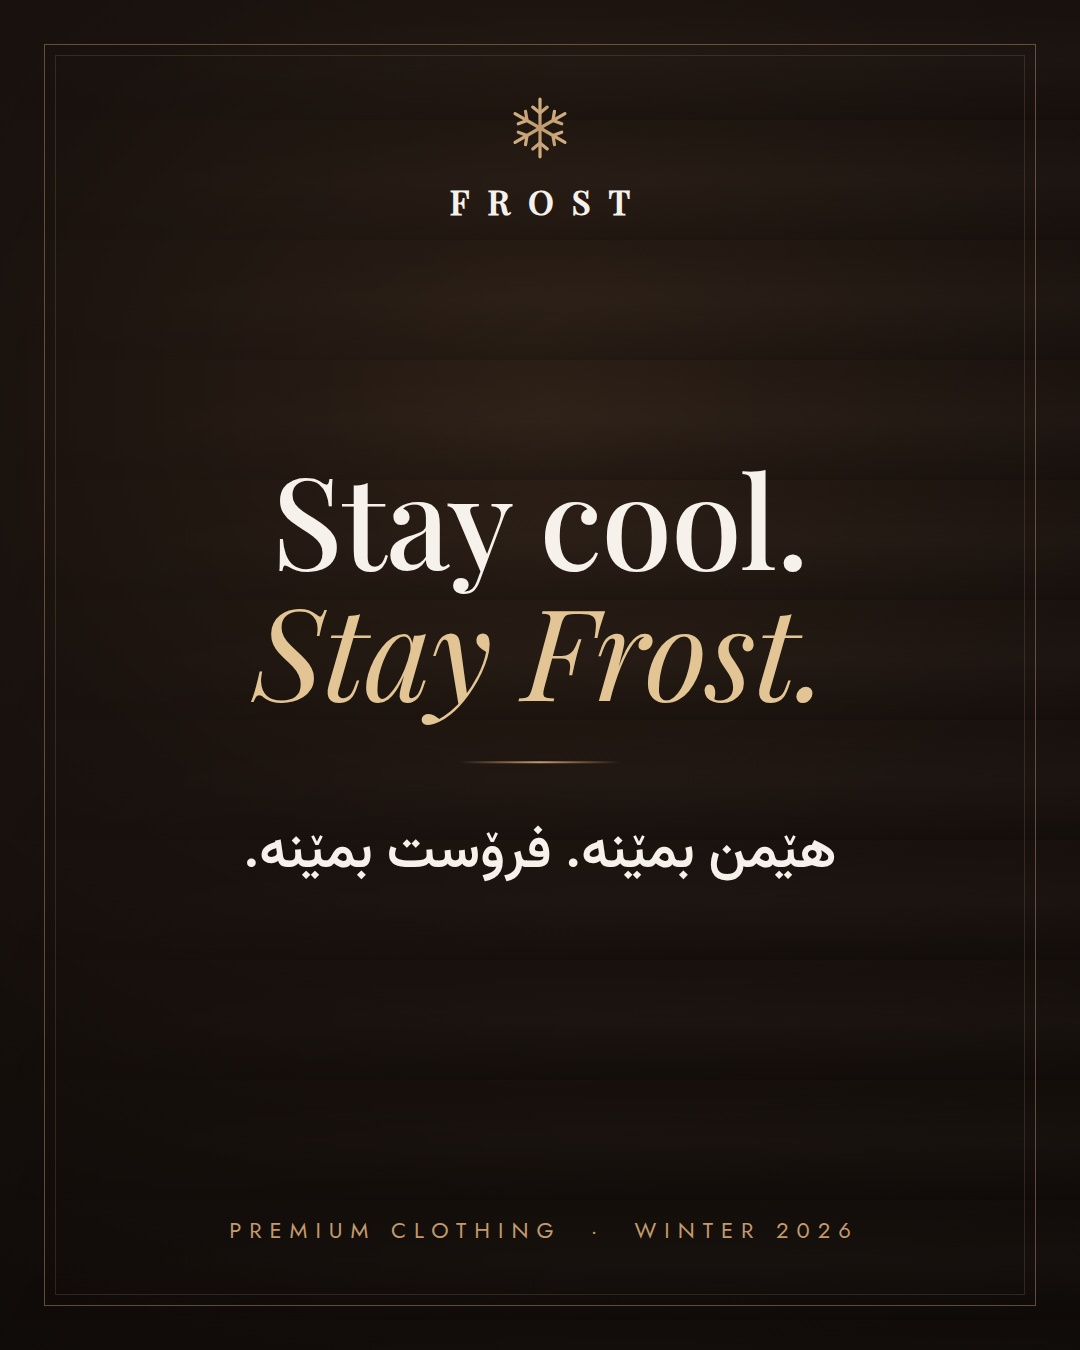
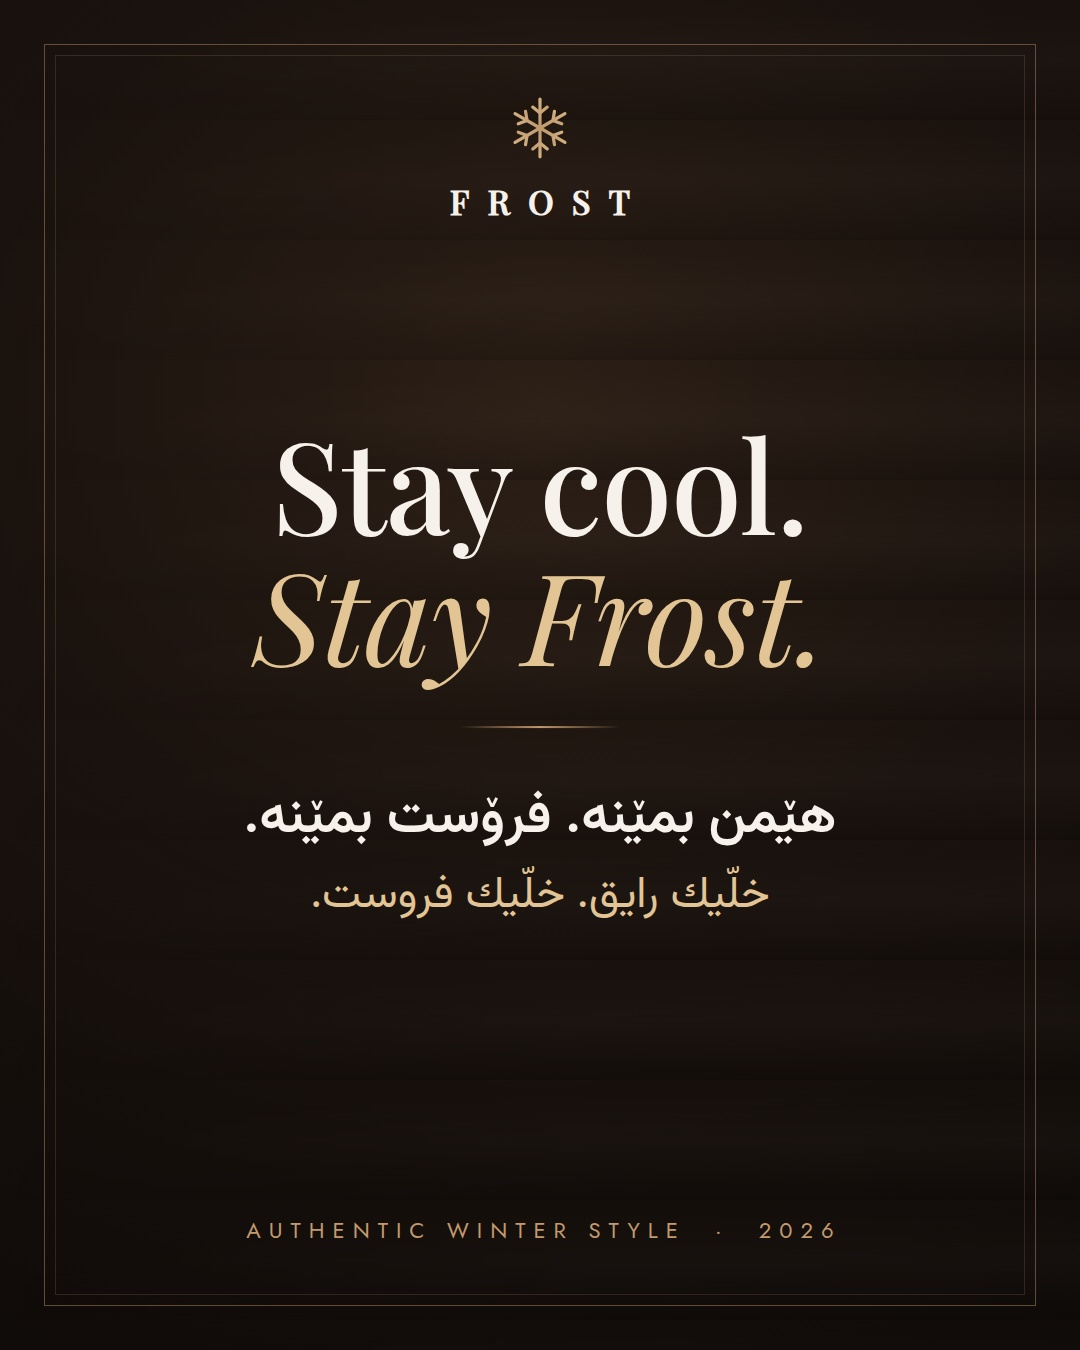
Add Arabic to first post, caption and bio; authentic winter style messaging
Claude-Session: https://claude.ai/code/session_01GwRBSqcHpNPaAygchSDijr

diff --git a/branding/instagram/post-01/post.html b/branding/instagram/post-01/post.html
@@ -40,6 +40,10 @@
   .rule { width: 160px; height: 2px; margin: 48px auto; background: linear-gradient(90deg, transparent, var(--gold), transparent); }
   .ku { font-family: "Vazirmatn", sans-serif; direction: rtl; font-weight: 600; font-size: 54px; line-height: 1.6; color: var(--cream); }
   .ku.sm { font-size: 36px; font-weight: 400; color: var(--sand); }
+  .ar { font-family: "Vazirmatn", sans-serif; direction: rtl; font-weight: 400; font-size: 44px; line-height: 1.6; color: var(--gold-hi); }
+  .ar.sm { font-size: 32px; color: var(--sand); opacity: .85; }
+  .item .stack { display: flex; flex-direction: column; align-items: flex-end; line-height: 1.35; }
+  .item .stack .ar { font-size: 26px; color: var(--gold); }
   .en-sm { font-size: 30px; letter-spacing: 1px; color: var(--sand); line-height: 1.5; }
   .bottom {
     position: absolute; bottom: 104px; left: 0; right: 0; text-align: center;
@@ -47,7 +51,7 @@
   }
   .swipe { position: absolute; bottom: 104px; right: 100px; font-size: 22px; letter-spacing: 4px; color: var(--gold); }
   .list { display: grid; gap: 26px; margin: 0 auto; width: 720px; text-align: left; }
-  .item { display: flex; align-items: center; justify-content: space-between; gap: 24px; padding: 22px 0; border-bottom: 1px solid rgba(196,154,108,.25); }
+  .item { display: flex; align-items: center; justify-content: space-between; gap: 24px; padding: 14px 0; border-bottom: 1px solid rgba(196,154,108,.25); }
   .item .en { font-size: 34px; letter-spacing: .5px; }
   .item .ku { font-size: 32px; font-weight: 400; color: var(--sand); }
   .handle { font-family: "Playfair Display", serif; font-style: italic; font-size: 64px; color: var(--gold-hi); }
@@ -80,8 +84,9 @@
     <h1>Stay cool.<br><em>Stay Frost.</em></h1>
     <div class="rule"></div>
     <div class="ku">هێمن بمێنە. فرۆست بمێنە.</div>
+    <div class="ar">خلّيك رايق. خلّيك فروست.</div>
   </div>
-  <div class="bottom">Premium Clothing &nbsp;·&nbsp; Winter 2026</div>
+  <div class="bottom">Authentic Winter Style &nbsp;·&nbsp; 2026</div>
 </section>
 
 <!-- Slide 2: what's coming -->
@@ -90,15 +95,16 @@
   <div class="top"><div class="eyebrow">The first collection</div></div>
   <div class="center">
     <h2>Cold weather.<br><em>Warm style.</em></h2>
-    <div class="ku" style="margin-top:28px">کەشی سارد، ستایلی گەرم.</div>
+    <div class="ku" style="margin-top:20px;font-size:46px">کەشی سارد، ستایلی گەرم.</div>
+    <div class="ar" style="font-size:38px">طقس بارد، ستايل دافئ.</div>
     <div class="rule"></div>
     <div class="list">
-      <div class="item"><span class="en">Premium puffer jackets</span><span class="ku">چاکەتی پریمیەم</span></div>
-      <div class="item"><span class="en">High-quality fabrics</span><span class="ku">قوماشی کوالێتی بەرز</span></div>
-      <div class="item"><span class="en">Designed by Frost</span><span class="ku">دیزاینی فرۆست</span></div>
+      <div class="item"><span class="en">Premium puffer jackets</span><span class="stack"><span class="ku">چاکەتی پریمیەم</span><span class="ar">جاكيتات فاخرة</span></span></div>
+      <div class="item"><span class="en">High-quality fabrics</span><span class="stack"><span class="ku">قوماشی کوالێتی بەرز</span><span class="ar">أقمشة عالية الجودة</span></span></div>
+      <div class="item"><span class="en">Designed by Frost</span><span class="stack"><span class="ku">دیزاینی فرۆست</span><span class="ar">تصميم فروست</span></span></div>
     </div>
   </div>
-  <div class="bottom">Coming soon &nbsp;·&nbsp; بەم زووانە</div>
+  <div class="bottom">Coming soon &nbsp;·&nbsp; <bdi>بەم زووانە</bdi> &nbsp;·&nbsp; <bdi>قريباً</bdi></div>
 </section>
 
 <!-- Slide 3: call to action -->
@@ -110,10 +116,12 @@
   <div class="center">
     <div class="en-sm">Delivery across Iraq &amp; Kurdistan</div>
     <div class="ku sm" style="margin-top:8px">گەیاندن بۆ هەموو عێراق و کوردستان</div>
+    <div class="ar sm">توصيل لكل العراق وكردستان</div>
     <div class="rule"></div>
     <div class="handle">@frost.store99</div>
-    <div class="pill">Follow &nbsp;·&nbsp; فۆڵۆمان بکە</div>
+    <div class="pill">Follow &nbsp;·&nbsp; <bdi>فۆڵۆمان بکە</bdi> &nbsp;·&nbsp; <bdi>تابعنا</bdi></div>
     <div class="ku sm" style="margin-top:44px">ئاگادارکردنەوەکان چالاک بکە، یەکەم کەس بە</div>
+    <div class="ar sm">فعّل الإشعارات وكن أول من يعرف</div>
     <div class="en-sm" style="margin-top:6px">Turn on notifications. Be the first to know.</div>
   </div>
   <div class="bottom">Premium Clothing &nbsp;·&nbsp; Frost</div>

diff --git a/branding/instagram/post-01/caption.md b/branding/instagram/post-01/caption.md
@@ -5,26 +5,28 @@ Upload in this order: slide1 → slide2 → slide3 (all 1080×1350, 4:5, the siz
 ## Caption (copy everything between the lines)
 ---
 Stay cool. Stay Frost. ❄
-
-Frost is here, a new premium clothing brand made for cold days and good taste. Our first winter collection is almost ready: premium puffer jackets, quality fabrics, designed by Frost.
+Authentic winter style is here: premium puffer jackets, quality fabrics, designed by Frost. Our first winter collection is almost ready.
 
 هێمن بمێنە. فرۆست بمێنە. ❄
-فرۆست هات، براندێکی نوێی جلوبەرگی پریمیەم بۆ ڕۆژە ساردەکان و سەلیقەی جوان. یەکەم کۆلێکشنی زستانمان بەم زووانە ئامادە دەبێت: چاکەتی پریمیەم، قوماشی کوالێتی بەرز، دیزاینی فرۆست.
+ستایلی زستانەی ڕەسەن گەیشت: چاکەتی پریمیەم، قوماشی کوالێتی بەرز، دیزاینی فرۆست. یەکەم کۆلێکشنی زستانمان بەم زووانە ئامادە دەبێت.
 
-🚚 Delivery across Iraq & Kurdistan | گەیاندن بۆ هەموو عێراق و کوردستان
-🔔 Follow and turn on notifications so you see the drop first.
-💬 Comment ❄ if you want to be first in line | ❄ بنووسە ئەگەر دەتەوێت یەکەم کەس بیت
+خلّيك رايق. خلّيك فروست. ❄
+وصل الستايل الشتوي الأصيل: جاكيتات فاخرة، أقمشة عالية الجودة، تصميم فروست. أول مجموعة شتوية لنا قريباً.
 
-#frost #فرۆست #premiumclothing #pufferjacket #winterfashion #menswear #kurdistan #erbil #هەولێر #سلێمانی #iraqfashion #جلوبەرگ
+🚚 Delivery across Iraq & Kurdistan | گەیاندن بۆ هەموو عێراق و کوردستان | توصيل لكل العراق وكردستان
+🔔 Follow & turn on notifications | فۆڵۆمان بکە | تابعنا وفعّل الإشعارات
+💬 Comment ❄ to be first in line | ❄ بنووسە | اكتب ❄ لتكون أول من يعرف
+
+#frost #فرۆست #فروست #premiumclothing #pufferjacket #kurdistan #erbil #هەولێر #العراق #ملابس_شتوية #ازياء_رجالية #بغداد
 ---
 
 ## Alt text (Edit → Advanced settings → Write alt text)
-Slide 1: Dark brown and gold Frost brand graphic reading "Stay cool. Stay Frost." in English and Kurdish Sorani.
+Slide 1: Dark brown and gold Frost brand graphic reading "Stay cool. Stay Frost." in English, Kurdish Sorani and Arabic.
 Slide 2: Frost announcement of a premium puffer jacket winter collection, coming soon.
 Slide 3: Frost delivers across Iraq and Kurdistan. Follow @frost.store99.
 
 ## Settings when posting
-- Location: your city (e.g. Erbil / Sulaymaniyah). Location tags help local discovery.
+- Location: your city (e.g. Erbil / Sulaymaniyah / Baghdad). Location tags help local discovery.
 - Add music to the carousel (a calm, chill track). Carousels with music can also be shown in Reels.
 - Leave "Share to Facebook" on if your Facebook Page is linked.
 
@@ -32,7 +34,7 @@ Slide 3: Frost delivers across Iraq and Kurdistan. Follow @frost.store99.
 - **Carousel:** Instagram can show it again to people who skipped slide 1, so it gets a second chance in the feed.
 - **Keywords in caption and alt text:** Instagram search reads both; "premium clothing", "puffer jacket" and city names are what local buyers search.
 - **Comment ❄ call to action:** comments and replies in the first hour are a strong signal. Reply to every comment quickly.
-- **Bilingual:** English helps search and wider reach; Sorani is what your local customers relate to.
+- **Three languages:** English helps search and wider reach; Sorani and Arabic reach Kurdish and Arabic-speaking customers across Iraq. Instagram search indexes all three.
 - **Few, specific hashtags:** 8–12 relevant ones work better than 30 generic ones.
 
 ## Posting checklist

diff --git a/branding/instagram-profile.md b/branding/instagram-profile.md
@@ -5,27 +5,22 @@
 2. frost.clothing99 / frostclothing.iq / shopfrost.iq / frost.krd
 
 ## Name field (this is what Instagram search reads, keep keywords here)
-Frost | Premium Clothing  (alternative: Frost | جلوبەرگی پریمیەم)
+Frost | Winter Clothing  (alternatives: Frost | Premium Winter Wear, Frost | ملابس شتوية)
 
 ## Category
 Clothing (Brand)
 
-## Bio, English (max 150 characters)
-❄ Premium clothing, your own style
-🚚 Delivery across Iraq & Kurdistan
-👇 Order now
+## Bio, English + Kurdish Sorani + Arabic (recommended, 132 of 150 characters)
+❄ Authentic Winter Style
+ستایلی زستانەی ڕەسەن | ستايل شتوي أصيل
+🚚 Iraq & Kurdistan | عێراق و کوردستان
+👇 Shop | داوا بکە | اطلب الآن
 
-## Bio, Kurdish Sorani (max 150 characters)
-❄ فرۆست | جلوبەرگی پریمیەم
-کوالێتی بەرز، ستایلی تایبەت بە تۆ
-🚚 گەیاندن بۆ هەموو عێراق و کوردستان
-👇 ئێستا داوا بکە
-
-## Bio, mixed (recommended, reaches both audiences)
-❄ Frost | فرۆست
-Premium Clothing | جلوبەرگی پریمیەم
-🚚 گەیاندن بۆ هەموو عێراق و کوردستان
-👇 Shop / داوا بکە
+## Bio, shorter alternative (90 characters)
+❄ Authentic Winter Style
+ستایلی زستانەی ڕەسەن
+ستايل شتوي أصيل
+🚚 Iraq & Kurdistan delivery
 
 ## Link
 Your website URL, with tracking: https://YOUR-SITE?utm_source=instagram&utm_medium=bio
@@ -34,4 +29,4 @@ Your website URL, with tracking: https://YOUR-SITE?utm_source=instagram&utm_medi
 New Arrivals | Delivery | Reviews | How to Order | Sizes
 
 ## Hashtags (use 3 to 5 per post)
-#frost #فرۆست #premiumclothing #kurdistan #hawler #sulaymaniyah #iraqfashion #menswear
+#frost #فرۆست #فروست #premiumclothing #pufferjacket #kurdistan #erbil #iraqfashion #ملابس_شتوية #ازياء_رجالية
